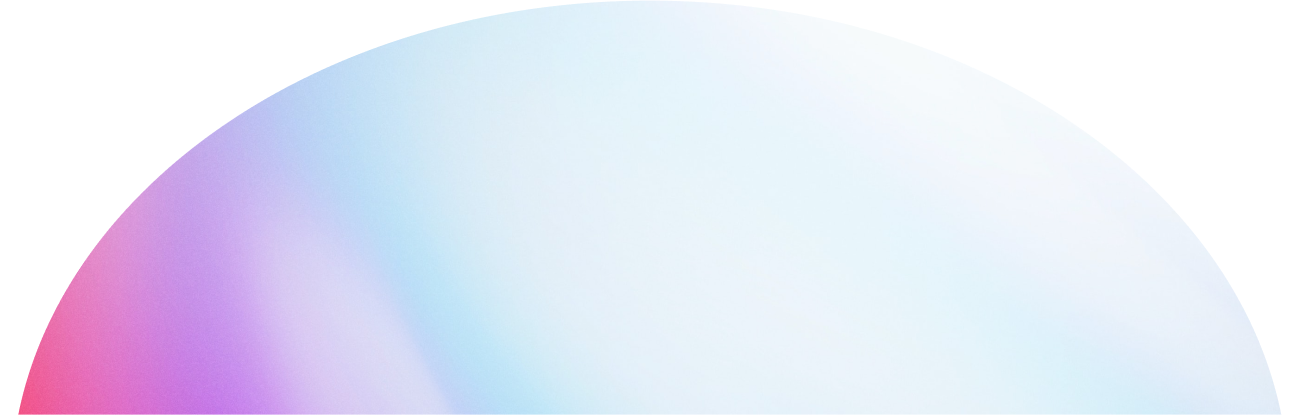
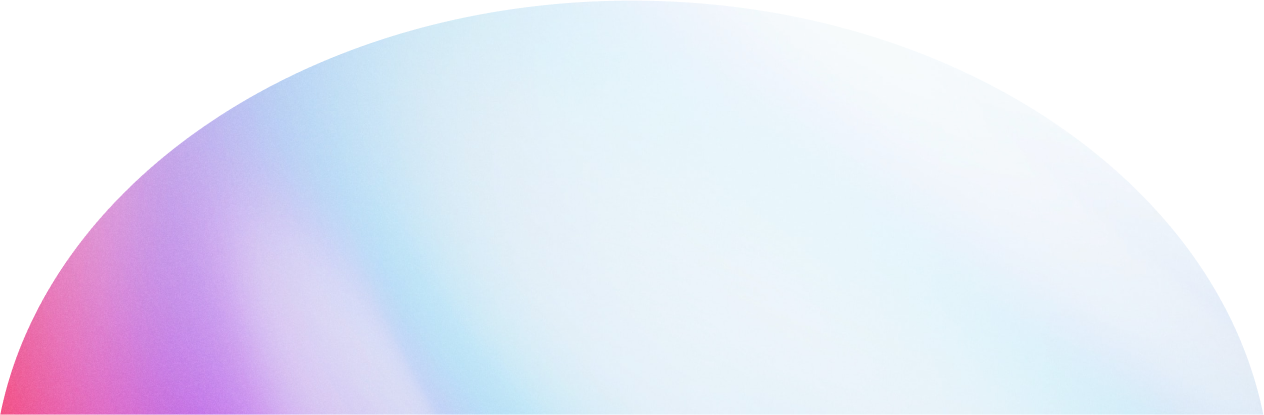
footer updates

diff --git a/index.html b/index.html
@@ -88,23 +88,20 @@
       </a>
     </section>
   </main>
-  <h2>Hi Coco, I've worked on your footer a bit. Try changing the image below to the correct image. Make sure it's an
-    SVG and kabab-case-the-file-name. Delete this h1 when you're
-    done. The brown colours are just temporary. Make your intagram icon link to the real URL and add appropriate social
-    icons. Go to https://fontawesome.com/ for the code.</h2>
   <ul class="main-footer">
     <li class="footer-item">
       <figure class="footer-branding"><img src="branding-assets/coralie-mayer.svg"></figure>
     </li>
     <li class="footer-item">
+      <p>Hi there! I’m a designer, fine artist and professional napper living in Vancouver, BC. Feel free to email or contact me on social media for estimates, questions or pictures of my cat.</p>
       <p><a href="#top">Smooth scroll to the top</a></p>
       <p>&copy; 2021. Made with ❤ and CSS Grid.</p>
     </li>
     <li class="footer-item">
       <ul class="social-menu">
-        <li class="social-item"><a href=""><i class="fab fa-instagram fa-lg"></i></a></li>
-        <li class="social-item"><a href=""><i class="fab fa-instagram fa-2x"></i></a></li>
-        <li class="social-item"><a href=""><i class="fab fa-instagram fa-3x"></i></a></li>
+        <li class="social-item"><a href="https://www.behance.net/coralie_mayer"><i class="fab fa-behance fa-lg"></i></a></li>
+        <li class="social-item"><a href="https://www.instagram.com/cmaiyr/"><i class="fab fa-instagram fa-lg"></i></a></li>
+        <li class="social-item"><a href="https://www.linkedin.com/in/coralie-mayer/"><i class="fab fa-linkedin fa-lg"></i></a></li>
       </ul>
     </li>
   </ul>

diff --git a/style.css b/style.css
@@ -40,7 +40,6 @@ body {
   background: var(--accent-color);
   color: var(--text-color);
   font-family: var(--body-typeface);
-  padding: 1rem;
 }
 
 
@@ -197,7 +196,6 @@ a:hover {
   display: flex;
   justify-content: space-between;
   flex-direction: column;
-  padding: 1rem;
   text-align: center;
   align-items: center;
   background: url(branding-assets/coralie-mayer-branding-gradient-orb.png) no-repeat bottom center;
@@ -241,7 +239,7 @@ a:hover {
 
 .header-navigation-item {
   width: 20vw;
-  background: rgb(245, 186, 164; )
+  background: rgb(245, 186, 164);
 }
 
 .footer-navigation {
